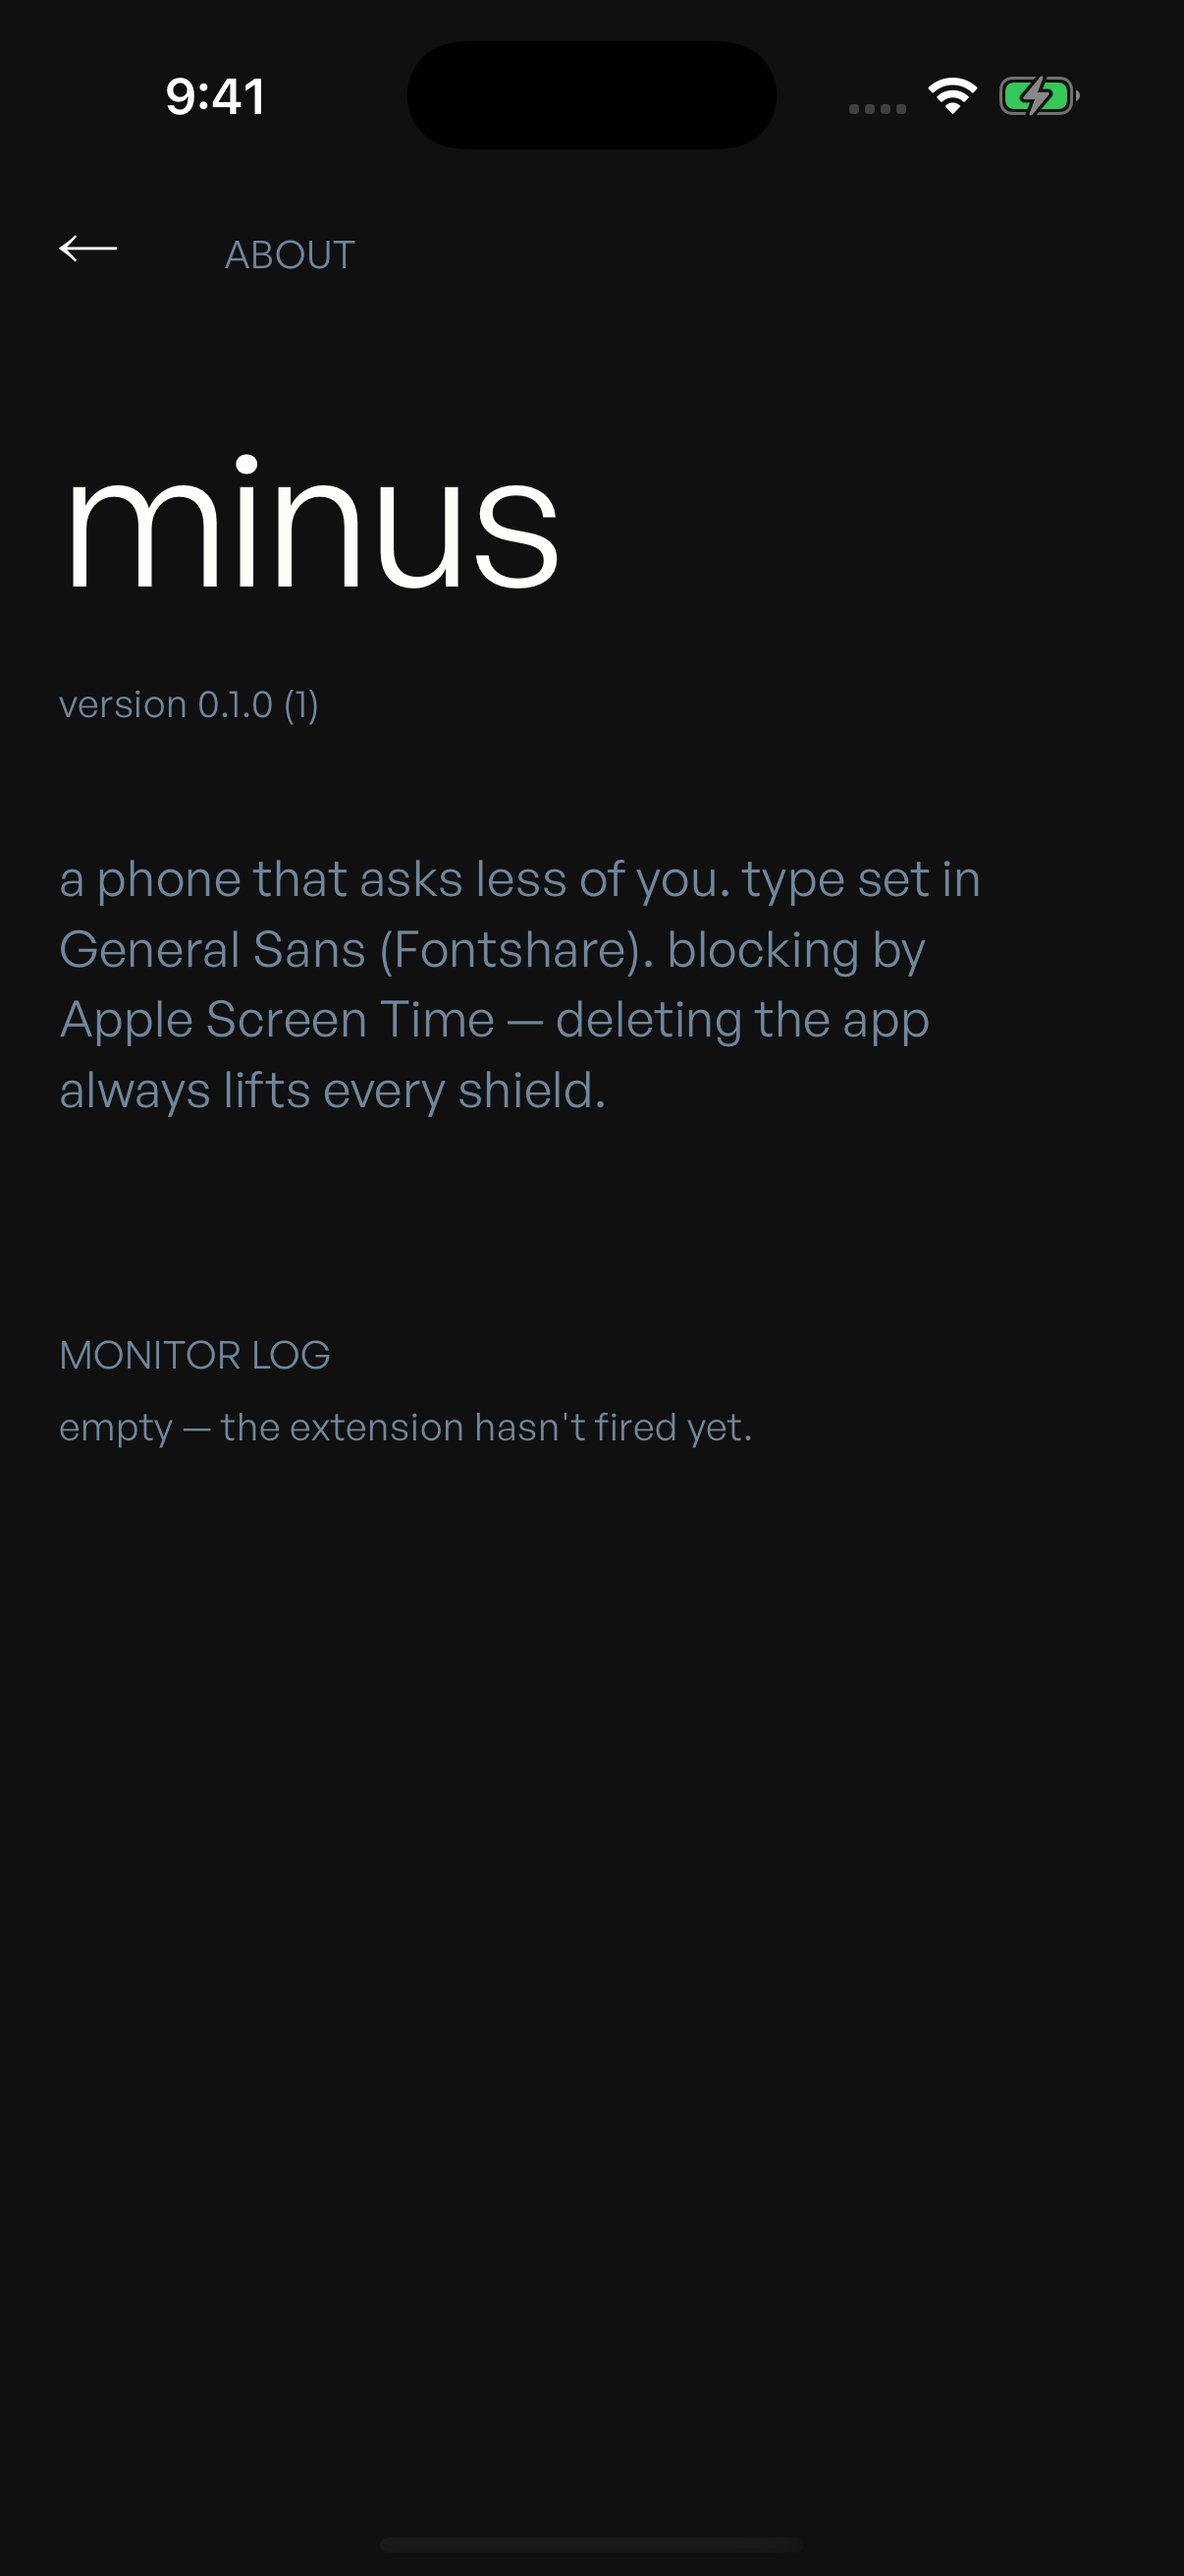
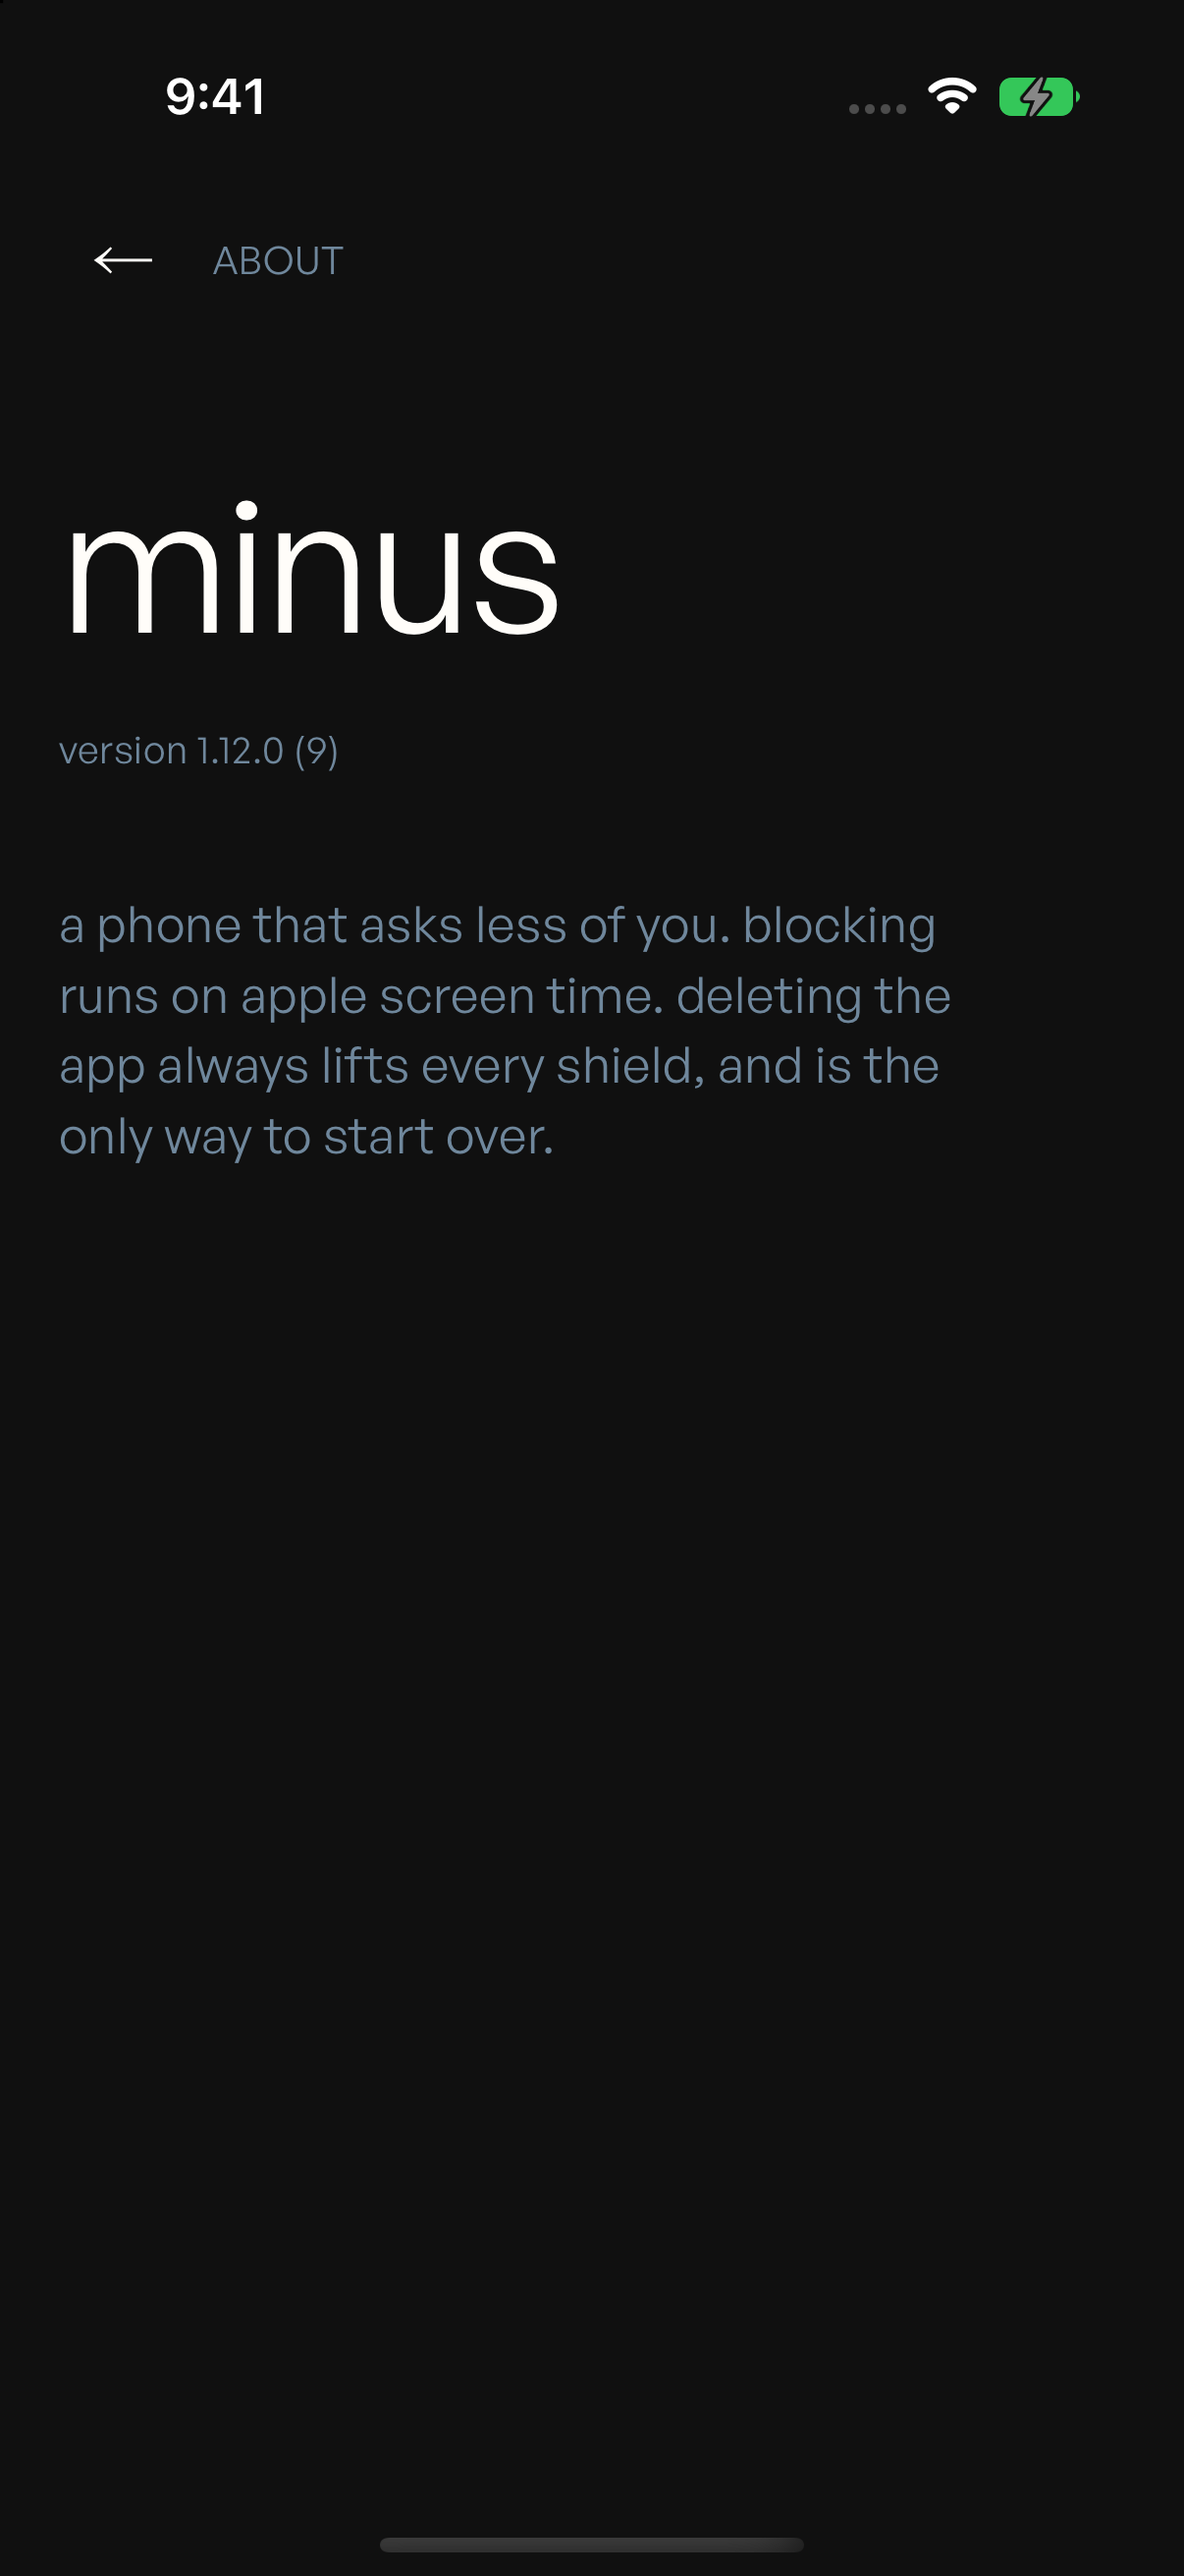
about: nothing about how minus was built
About ended in two developer panels: IDENTITY LAUNCHER, two rows offering to
switch the private launch route off, and MONITOR LOG, thirty lines of a
diagnostic ring buffer. Both were #if DEBUG, but this build is installed in
Debug, so they were simply part of the app. An app that offers to disable its
own launcher is explaining its implementation to someone who wants to open
Spotify. Both are gone, and AboutView now carries no conditional compilation
at all: it renders identically in Debug and Release.

Two things fell out with them.

PrivateAppLauncher.isEnabled had no mutator left, making it a mutable global
stuck at true, so it goes and the guard drops to isAvailable — which is the
real safety, since it checks the private class actually resolves.

SharedState.monitorLog existed only to fill that panel; its own comment said
so. Deleting the panel would have left a write-only ledger, written twice per
callback from the one process with a single-digit-MB memory cap. Its events
are already recorded by appendPendingEvent, which the app genuinely drains,
so the interval lifecycle is untouched.

Also fixes a gesture flake the full suite exposed: the card-pager test used
XCUITest's default swipe velocity, and under load that heuristic lands short
of the pager's 24pt minimum, so the swipe silently did nothing and the
assertion blamed the app. The velocity is now stated rather than guessed, and
a dropped gesture retries, because that is a harness event and not a
behaviour.
[…]

diff --git a/Minus/Features/Settings/SettingsSubscreens.swift b/Minus/Features/Settings/SettingsSubscreens.swift
@@ -378,9 +378,6 @@ struct PermissionSettingsView: View {
 // MARK: - About
 
 struct AboutView: View {
-    #if DEBUG
-    @State private var identityLauncherOn = PrivateAppLauncher.isEnabled
-    #endif
     private var version: String {
         let short = Bundle.main.object(forInfoDictionaryKey: "CFBundleShortVersionString") as? String ?? "?"
         let build = Bundle.main.object(forInfoDictionaryKey: "CFBundleVersion") as? String ?? "?"
@@ -403,66 +400,8 @@ struct AboutView: View {
                 .foregroundStyle(MN.fogBlue)
                 .frame(maxWidth: 320, alignment: .leading)
                 .padding(.top, MN.Space.l)
-
-            #if DEBUG
-            identityLauncherSwitch
-            Text("MONITOR LOG")
-                .mnType(.caption)
-                .textCase(.uppercase)
-                .foregroundStyle(MN.fogBlue)
-                .padding(.top, MN.Space.section)
-            let log = SharedState.monitorLog
-            if log.isEmpty {
-                Text("empty. the extension hasn't fired yet.")
-                    .mnType(.caption)
-                    .foregroundStyle(MN.fogBlue)
-                    .padding(.top, MN.Space.xs)
-            } else {
-                VStack(alignment: .leading, spacing: MN.Space.xxs) {
-                    ForEach(Array(log.suffix(30).enumerated()), id: \.offset) { _, line in
-                        Text(line)
-                            .mnType(.caption)
-                            .foregroundStyle(MN.boneWhite)
-                    }
-                }
-                .padding(.top, MN.Space.xs)
-            }
-            #endif
         }
     }
-
-    #if DEBUG
-    /// The identity launcher is a private API. A future iOS could start
-    /// refusing it, or hanging differently: this turns it off without a
-    /// rebuild, and minus falls back to schemes, links and shortcuts.
-    private var identityLauncherSwitch: some View {
-        VStack(alignment: .leading, spacing: MN.Space.xxs) {
-            Text("IDENTITY LAUNCHER")
-                .mnType(.caption)
-                .textCase(.uppercase)
-                .foregroundStyle(MN.fogBlue)
-                .padding(.top, MN.Space.section)
-            OnboardingSelectRow(
-                title: "on \u{00B7} open apps by bundle id",
-                isSelected: identityLauncherOn,
-                accessibilityID: "identity-launcher-on"
-            ) {
-                identityLauncherOn = true
-                PrivateAppLauncher.isEnabled = true
-            }
-            OnboardingSelectRow(
-                title: "off \u{00B7} schemes, links, shortcuts only",
-                isSelected: !identityLauncherOn,
-                accessibilityID: "identity-launcher-off"
-            ) {
-                identityLauncherOn = false
-                PrivateAppLauncher.isEnabled = false
-            }
-        }
-        .padding(.bottom, MN.Space.l)
-    }
-
-    #endif
 }
 
 // MARK: - Shared shell

diff --git a/MinusUITests/HomeUITests.swift b/MinusUITests/HomeUITests.swift
@@ -105,6 +105,25 @@ final class HomeUITests: XCTestCase {
     // MARK: - (e) CA-8 — the card pager (v1.7)
 
     /// Only the active card is built, so a card that is not showing does not
+    /// A pager swipe that does not depend on XCUITest's default velocity
+    /// heuristic, which under full-suite load intermittently lands short of
+    /// the gesture's 24pt minimum: the pager stays put and the assertion
+    /// blames the app for a flake in the harness. Still a real swipe, just
+    /// with the velocity stated rather than guessed, and retried once because
+    /// a dropped gesture is a harness event, not a behaviour.
+    @MainActor
+    private func swipePager(_ app: XCUIApplication, toLeft: Bool, until id: String) {
+        for _ in 0..<3 {
+            let pager = element(app, "card-pager")
+            if toLeft {
+                pager.swipeLeft(velocity: .fast)
+            } else {
+                pager.swipeRight(velocity: .fast)
+            }
+            if app.buttons[id].waitForExistence(timeout: 3) { return }
+        }
+    }
+
     /// exist at all. That is the point: a page can never be the wrong page.
     @MainActor
     func testCardPagerSwipesBetweenCards() {
@@ -114,7 +133,7 @@ final class HomeUITests: XCTestCase {
         XCTAssertTrue(app.buttons["card-tab-one"].exists, "card tabs missing")
         attach(app, named: "CA-8")
 
-        element(app, "card-pager").swipeLeft()
+        swipePager(app, toLeft: true, until: "row-app-slack")
         XCTAssertTrue(
             app.buttons["row-app-slack"].waitForExistence(timeout: 5),
             "swipe should reveal card two"
@@ -122,13 +141,13 @@ final class HomeUITests: XCTestCase {
         XCTAssertFalse(app.buttons["row-app-phone"].exists, "card one should have left")
         attach(app, named: "CA-8-work")
 
-        element(app, "card-pager").swipeLeft()
+        swipePager(app, toLeft: true, until: "row-app-custom-pilates")
         XCTAssertTrue(
             app.buttons["row-app-custom-pilates"].waitForExistence(timeout: 5),
             "card three (custom entry) missing"
         )
 
-        element(app, "card-pager").swipeRight()
+        swipePager(app, toLeft: false, until: "row-app-slack")
         XCTAssertTrue(
             app.buttons["row-app-slack"].waitForExistence(timeout: 5),
             "swipe back should return to card two"

diff --git a/Minus/Data/SharedState.swift b/Minus/Data/SharedState.swift
@@ -47,7 +47,6 @@ enum SharedState {
         static let activeSessions = "minus.activeSessions"
         static let scheduleRegistry = "minus.scheduleRegistry"
         static let pendingEvents = "minus.pendingEvents"
-        static let monitorLog = "minus.monitorLog"
     }
 
     /// The app-group id comes from Info.plist (`MinusAppGroup`, present in both
@@ -102,22 +101,9 @@ enum SharedState {
         return events
     }
 
-    // MARK: Monitor log (DEBUG diagnostics, surfaced in Settings → About)
-
-    static func appendMonitorLog(_ line: String) {
-        var log = defaults.stringArray(forKey: Key.monitorLog) ?? []
-        log.append(line)
-        if log.count > 200 { log.removeFirst(log.count - 200) }
-        defaults.set(log, forKey: Key.monitorLog)
-    }
-
-    static var monitorLog: [String] {
-        defaults.stringArray(forKey: Key.monitorLog) ?? []
-    }
-
     /// Full wipe (Settings → reset).
     static func reset() {
-        for key in [Key.activeSessions, Key.scheduleRegistry, Key.pendingEvents, Key.monitorLog] {
+        for key in [Key.activeSessions, Key.scheduleRegistry, Key.pendingEvents] {
             defaults.removeObject(forKey: key)
         }
     }

diff --git a/MinusMonitor/MonitorExtension.swift b/MinusMonitor/MonitorExtension.swift
@@ -15,11 +15,9 @@ final class MonitorExtension: DeviceActivityMonitor {
     override func intervalDidStart(for activity: DeviceActivityName) {
         super.intervalDidStart(for: activity)
         let name = activity.rawValue
-        SharedState.appendMonitorLog("didStart \(name) \(Date().ISO8601Format())")
 
         guard let interval = SharedState.scheduleRegistry[name] else { return }
         guard let selection = try? JSONDecoder().decode(FamilyActivitySelection.self, from: interval.selectionData) else {
-            SharedState.appendMonitorLog("decode-failed \(name)")
             return
         }
         let store = ManagedSettingsStore(named: .init(name))
@@ -36,6 +34,5 @@ final class MonitorExtension: DeviceActivityMonitor {
         let name = activity.rawValue
         ManagedSettingsStore(named: .init(name)).clearAllSettings()
         SharedState.appendPendingEvent(MonitorEvent(kind: .intervalEnded, activityName: name, date: Date()))
-        SharedState.appendMonitorLog("didEnd \(name) \(Date().ISO8601Format())")
     }
 }

diff --git a/Minus/Data/PrivateAppLauncher.swift b/Minus/Data/PrivateAppLauncher.swift
@@ -21,7 +21,6 @@ import Foundation
 /// submission, where it is grounds for rejection.
 enum PrivateAppLauncher {
     /// Set false to route around the private path without a rebuild.
-    nonisolated(unsafe) static var isEnabled = true
 
     /// True when the private path is reachable at all. Cheap and cached.
     nonisolated static let isAvailable: Bool = {
@@ -36,7 +35,7 @@ enum PrivateAppLauncher {
     /// app came forward: that answer does not exist (see rule 1).
     @discardableResult
     nonisolated static func open(bundleID: String) -> Bool {
-        guard isEnabled, isAvailable, !bundleID.isEmpty else { return false }
+        guard isAvailable, !bundleID.isEmpty else { return false }
         DispatchQueue.global(qos: .userInitiated).async {
             guard let workspaceClass = NSClassFromString("LSApplicationWorkspace") as? NSObject.Type,
                   let workspace = workspaceClass

diff --git a/MinusTests/SharedStateTests.swift b/MinusTests/SharedStateTests.swift
@@ -40,23 +40,11 @@ final class SharedStateTests: XCTestCase {
         XCTAssertTrue(SharedState.drainPendingEvents().isEmpty)
     }
 
-    func testMonitorLogRingBufferCapsAt200() {
-        for i in 0..<230 {
-            SharedState.appendMonitorLog("line \(i)")
-        }
-        let log = SharedState.monitorLog
-        XCTAssertEqual(log.count, 200)
-        XCTAssertEqual(log.first, "line 30")
-        XCTAssertEqual(log.last, "line 229")
-    }
-
     func testResetClearsEverything() {
         SharedState.activeSessions = [
             ActivitySnapshot(activityName: "x", sessionID: UUID(), startedAt: .now, plannedEndAt: .now)
         ]
-        SharedState.appendMonitorLog("line")
         SharedState.reset()
         XCTAssertTrue(SharedState.activeSessions.isEmpty)
-        XCTAssertTrue(SharedState.monitorLog.isEmpty)
     }
 }

diff --git a/TODOS.md b/TODOS.md
@@ -1,6 +1,6 @@
 # minus — deferred scope
 
-## What still stands between here and a release (as of 1.13.0)
+## What still stands between here and a release (as of 1.14.0)
 
 Ranked by what actually blocks, not by effort.
 
@@ -10,7 +10,12 @@ Ranked by what actually blocks, not by effort.
    decision, so it ships as is — but "release" here means *onto your phone*,
    not into the store. Distributing publicly means deleting the identity route
    and living with schemes plus Shortcuts, which is a materially worse app.
-   `PrivateAppLauncher.isEnabled` (DEBUG row in About) is the switch.
+   As of 1.14 the route is unconditional: the DEBUG row that could switch it
+   off was removed along with the rest of the developer panels in About, so
+   disabling it now means editing `PrivateAppLauncher.open` and rebuilding.
+   That is a smaller loss than it sounds — the URL plan still runs behind
+   every identity launch, so a call that starts being refused degrades to
+   schemes and shortcuts rather than to a dead launcher.
 2. **The widget's identity launch is still unproven.** The app process
    launches by identity on hardware (verified: Telegram killed at pid 3665,
    relaunched at 3754). Whether an app EXTENSION gets the same privilege has
